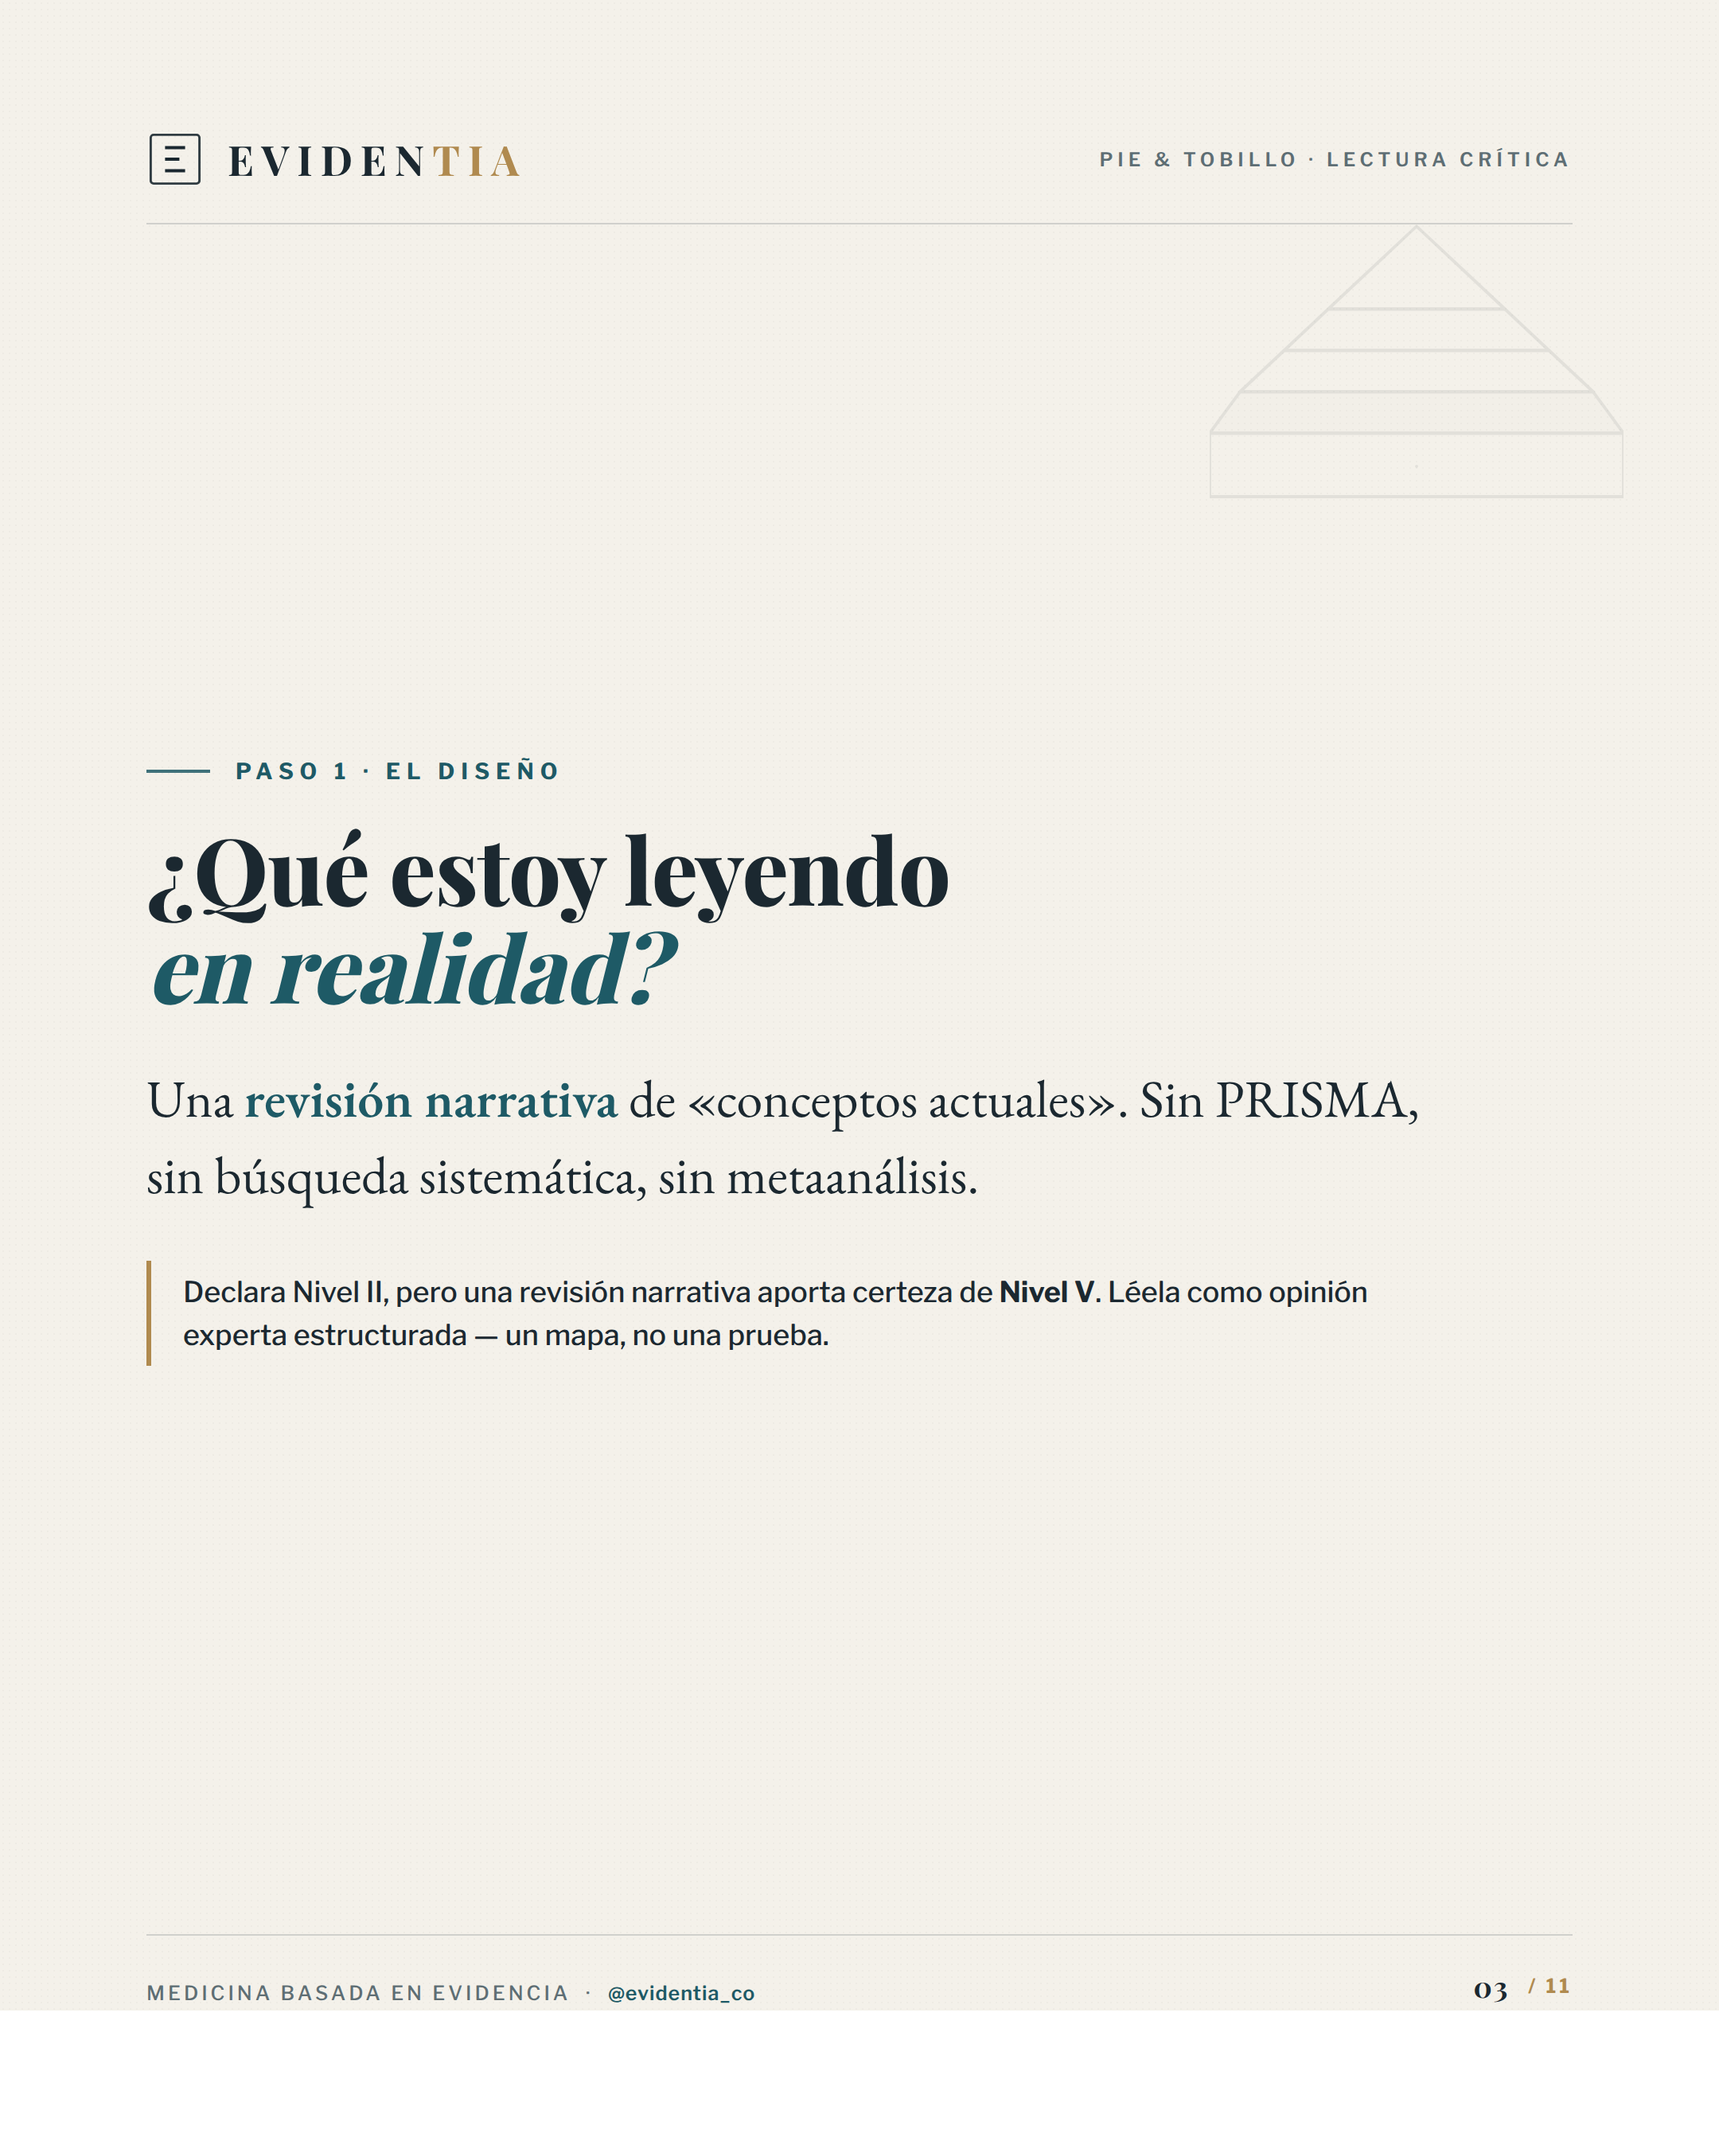
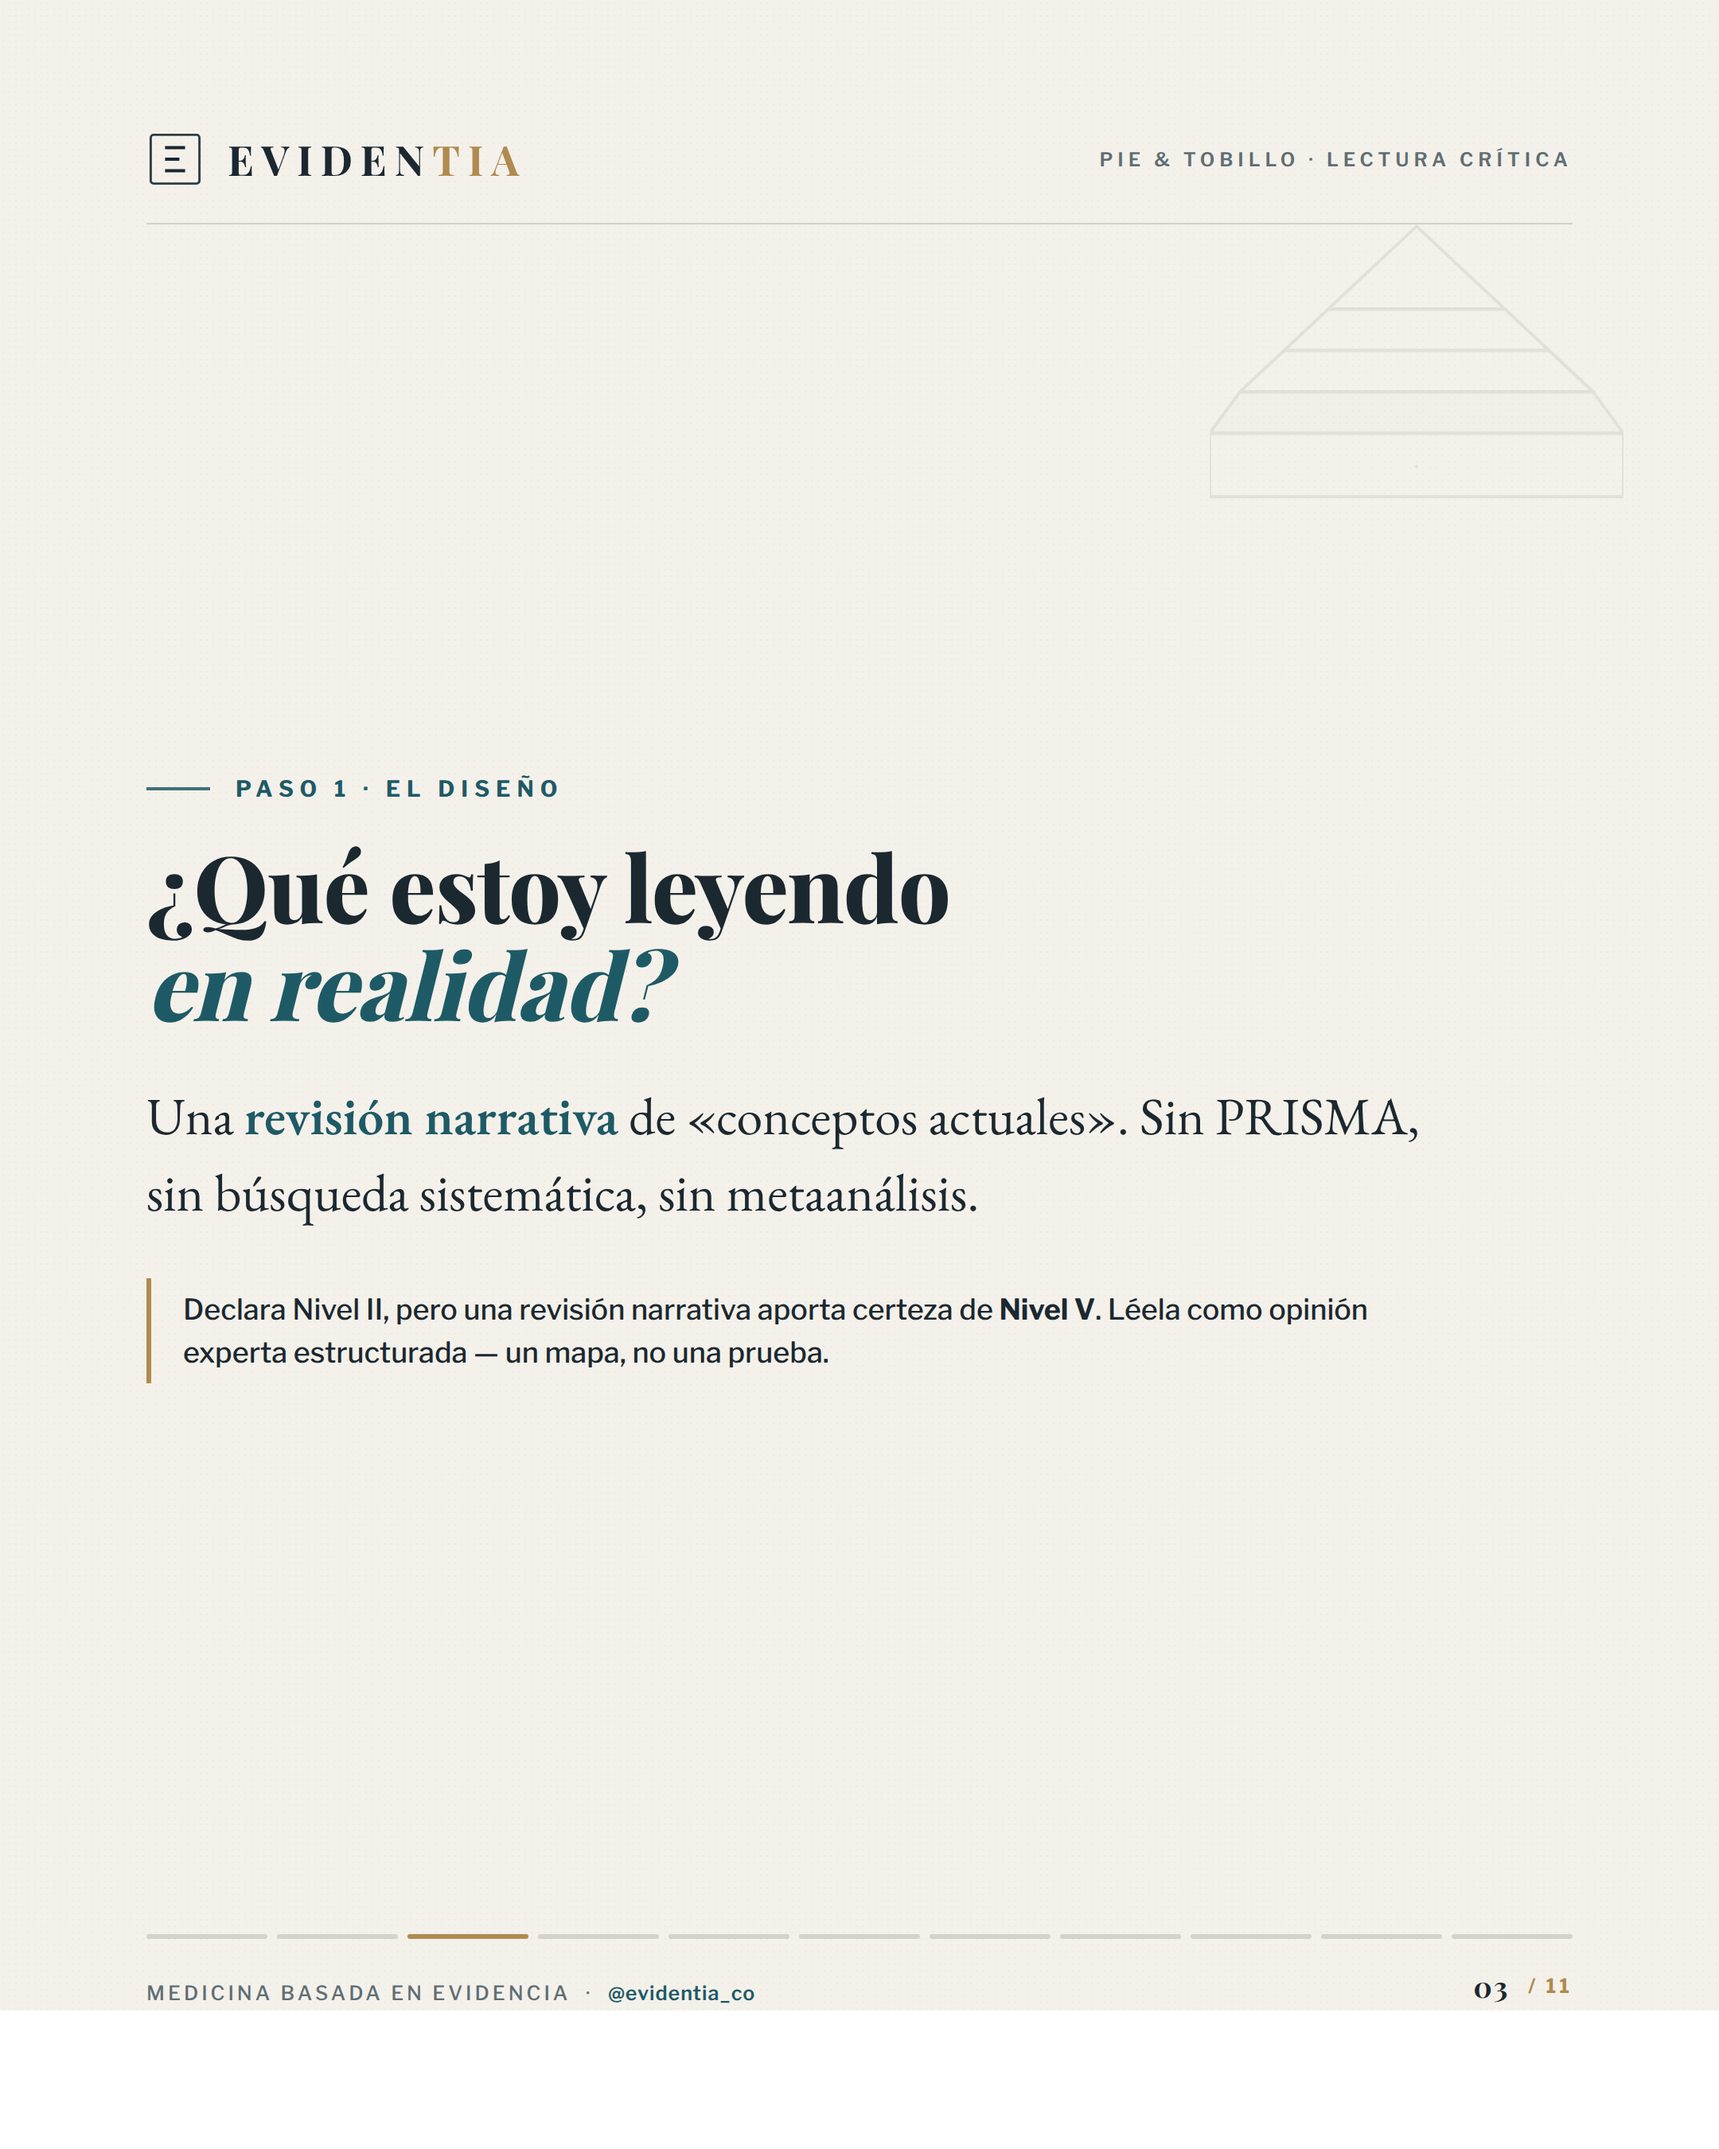
EVIDENTIA carousel: art-direction polish (progress bar, cover, framing)
Marketing/design pass: segmented progress bar on every slide, redesigned
cover (edition tag, gold accent, corner brackets, swipe cue), clinical-viewer
figure frames (gold corner ticks + subtle brand color-grade on radiographs),
refined kickers, and a brand sign-off lockup on the closing slide.

Changed region(s): [[0.062, 0.3422, 0.8375, 0.56], [0.0931, 0.5911, 0.8065, 0.6533]]

diff --git a/examples/evidentia-carrusel-maleolo-peroneo/src/build2.py b/examples/evidentia-carrusel-maleolo-peroneo/src/build2.py
@@ -103,7 +103,46 @@ h1 em {{ font-style:italic; color:{TEAL}; }}
 .foot .r .num {{ font-family:{FONT_SERIF}; font-size:18px; letter-spacing:1px; }}
 .foot .r .of {{ color:{GOLD}; }}
 .motif {{ position:absolute; z-index:1; color:{INK}; }} .slide.dark .motif {{ color:{PAPER}; }}
-.motif.br {{ right:-30px; bottom:70px; width:320px; }} .motif.tr {{ right:60px; top:130px; width:260px; }}
+.motif.br {{ right:-30px; bottom:96px; width:300px; }} .motif.tr {{ right:60px; top:130px; width:260px; }}
+
+/* progress bar */
+.progress {{ display:flex; gap:6px; margin-bottom:18px; z-index:3; }}
+.seg {{ height:3px; flex:1; background:currentColor; opacity:0.15; border-radius:3px; }}
+.seg.on {{ opacity:1; background:{GOLD}; }}
+.slide.dark .seg.on {{ background:{GOLD}; }}
+
+/* capture frame: clinical-viewer refinement */
+.capframe {{ position:relative; }}
+.capframe.rad {{ box-shadow:0 24px 60px -28px rgba(12,30,37,0.55), inset 0 0 0 1px rgba(176,138,79,0.30); }}
+.capframe.rad::after {{ content:""; position:absolute; inset:16px; pointer-events:none;
+  background:linear-gradient(155deg, rgba(14,53,65,0.55), rgba(30,90,102,0.10) 45%, rgba(176,138,79,0.28));
+  mix-blend-mode:soft-light; }}
+.capframe.lite {{ box-shadow:0 22px 56px -30px rgba(12,30,37,0.42), inset 0 0 0 1px rgba(176,138,79,0.28); }}
+.tick {{ position:absolute; width:18px; height:18px; z-index:4; border-color:{GOLD}; opacity:0.9; }}
+.tick.tl {{ top:7px; left:7px; border-top:2px solid; border-left:2px solid; }}
+.tick.tr {{ top:7px; right:7px; border-top:2px solid; border-right:2px solid; }}
+.tick.bl {{ bottom:7px; left:7px; border-bottom:2px solid; border-left:2px solid; }}
+.tick.br {{ bottom:7px; right:7px; border-bottom:2px solid; border-right:2px solid; }}
+
+/* corner brackets for cover / closing */
+.bracket {{ position:absolute; width:64px; height:64px; z-index:3; border-color:{GOLD}; opacity:0.8; }}
+.bracket.tl {{ top:60px; left:64px; border-top:2px solid; border-left:2px solid; }}
+.bracket.br {{ bottom:64px; right:64px; border-bottom:2px solid; border-right:2px solid; }}
+
+/* cover-specific */
+.edition {{ font-family:{FONT_SANS}; font-size:13px; letter-spacing:4px; text-transform:uppercase;
+  color:{GOLD}; font-weight:700; }}
+.swipe {{ display:flex; align-items:center; gap:12px; margin-top:40px; font-family:{FONT_SANS};
+  font-size:14px; letter-spacing:3px; text-transform:uppercase; font-weight:700; color:{PAPER}; }}
+.swipe .arrow {{ font-size:20px; color:{GOLD}; }}
+.swipe .ln {{ width:52px; height:2px; background:{GOLD}; opacity:0.8; }}
+
+/* sign-off lockup (closing) */
+.signoff {{ margin-top:34px; display:flex; align-items:center; gap:16px; }}
+.signoff .so-mark {{ width:34px; height:34px; }}
+.signoff .so-txt {{ font-family:{FONT_SERIF}; font-weight:700; font-size:22px; letter-spacing:4px; color:{PAPER}; }}
+.signoff .so-txt .co {{ color:{GOLD}; }}
+.signoff .so-sub {{ font-family:{FONT_SANS}; font-size:13px; letter-spacing:2px; color:#8FA3A7; margin-left:2px; }}
 """
 
 EMBLEM = '''<svg class="emblem" viewBox="0 0 40 40" fill="none" stroke="currentColor" stroke-width="1.6">
@@ -115,7 +154,8 @@ def header():
       <div class="top-right">Pie&nbsp;&amp;&nbsp;Tobillo · Lectura Crítica</div></div><div class="rule"></div>'''
 
 def footer(n):
-    return f'''<div class="rule" style="margin-bottom:20px;"></div><div class="foot">
+    segs = "".join(f'<span class="seg{" on" if i==n else ""}"></span>' for i in range(1, TOTAL+1))
+    return f'''<div class="progress">{segs}</div><div class="foot">
       <div class="l">Medicina Basada en Evidencia&nbsp; ·&nbsp; <span class="handle">@evidentia_co</span></div>
       <div class="r"><span class="num">{n:02d}</span><span class="of">/ {TOTAL}</span></div></div>'''
 
@@ -129,20 +169,23 @@ def slide(n, inner, dark=False, layout="center", motif_html=""):
 <div class="body {layout}">{inner}</div>{footer(n)}</div></body></html>'''
 
 def capture(figkey, cf, note, rad=True):
-    matcls = "capframe rad" if rad else "capframe"
-    return f'''<div class="cap"><div class="{matcls}"><img src="{FIG[figkey]}" alt=""></div>
+    matcls = "capframe rad" if rad else "capframe lite"
+    ticks = '<span class="tick tl"></span><span class="tick tr"></span><span class="tick bl"></span><span class="tick br"></span>'
+    return f'''<div class="cap"><div class="{matcls}"><img src="{FIG[figkey]}" alt="">{ticks}</div>
       <div class="capbar"><span class="cf">{cf}</span>
       <span class="src">Tomada de Olías-López et&nbsp;al.<br>Rev Esp Cir Ortop Traumatol · RECOT 2024</span></div></div>
       <p class="capnote">{note}</p>'''
 
 S = {}
 
-# 01 HOOK
+# 01 HOOK / COVER
 S[1] = slide(1, f'''
-  <div class="kicker">Análisis crítico</div>
+  <span class="bracket tl"></span><span class="bracket br"></span>
+  <div class="kicker" style="margin-bottom:20px;">Lectura crítica · Pie y tobillo</div>
   <h1 class="t-hero">Operamos el peroné.<br>Pero el peroné<br><em>casi nunca decide.</em></h1>
   <p class="lead">Lo que decide la cirugía es la <b>estabilidad del anillo</b> — y eso no siempre se ve en la primera radiografía.</p>
-''', dark=True, motif_html=motif("mortise","br",0.14,2.0))
+  <div class="swipe"><span class="ln"></span>Desliza el análisis<span class="arrow">→</span></div>
+''', dark=True, motif_html=motif("mortise","br",0.16,2.0))
 
 # 02 IDENTITY CARD (real title)
 S[2] = slide(2, f'''
@@ -228,12 +271,15 @@ S[10] = slide(10, f'''
 
 # 11 CONCLUSIÓN + pregunta
 S[11] = slide(11, f'''
+  <span class="bracket tl"></span><span class="bracket br"></span>
   <div class="kicker">Conclusión</div>
   <h1 class="t-lg">El mensaje real:<br>un mapa excelente,<br><em>no una prueba.</em></h1>
   <p class="lead">Consenso experto, actualizado y clínicamente útil. Un marco para decidir mejor — no evidencia de alto nivel.</p>
   <div class="qbox"><div class="qk">Para el debate</div>
     <p>¿Cuántas osteosíntesis de peroné indicamos por la radiografía… y cuántas por una inestabilidad realmente demostrada en carga?</p></div>
-''', dark=True, motif_html=motif("ring","br",0.10,2.2))
+  <div class="signoff">{EMBLEM.replace('class="emblem"','class="so-mark"')}
+    <div><div class="so-txt">EVIDEN<span class="co">TIA</span></div><div class="so-sub">Medicina basada en evidencia · @evidentia_co</div></div></div>
+''', dark=True, motif_html=motif("ring","br",0.09,2.2))
 
 for n, h in S.items():
     open(f"{OUT}/slide-{n:02d}.html","w",encoding="utf-8").write(h)
